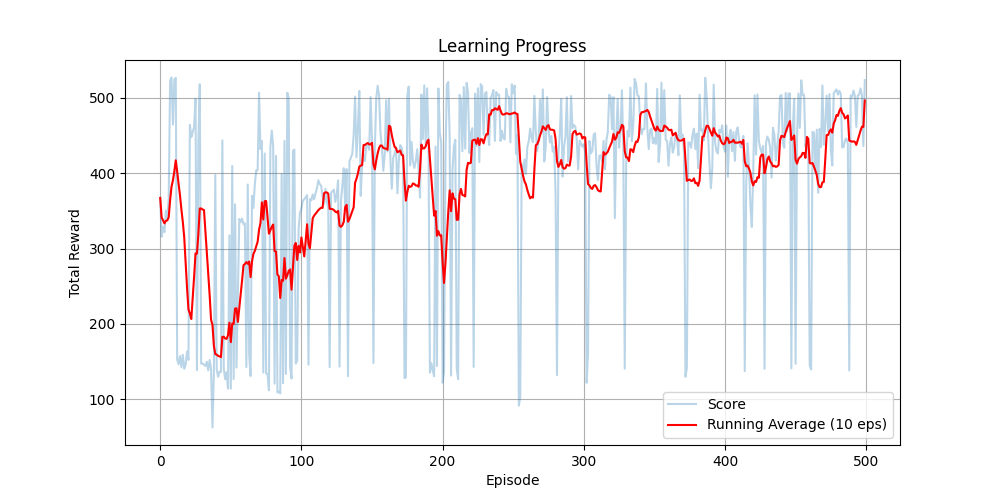
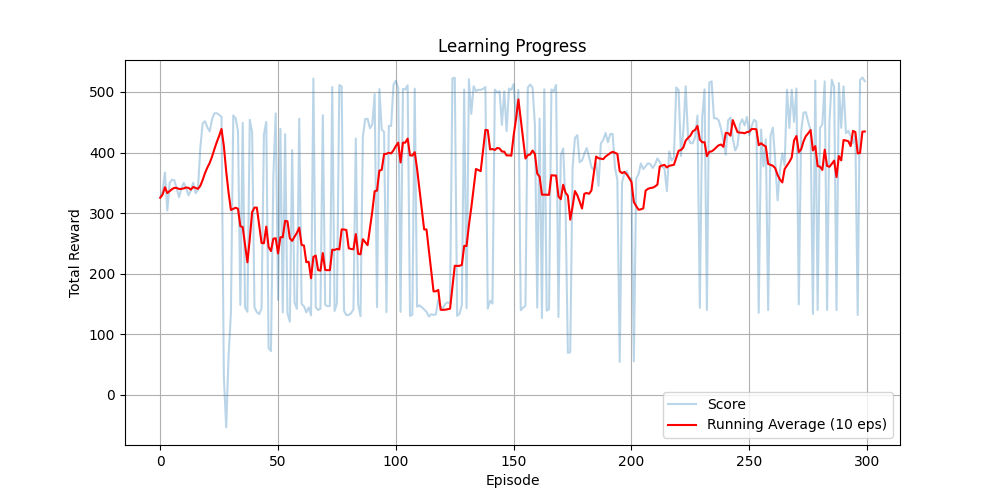
implemented and exposed STL to the RL training loop

diff --git a/numpy_core/gym/colregs_gym.py b/numpy_core/gym/colregs_gym.py
@@ -1,8 +1,8 @@
 from numpy_core.gym.mc_gym_csad_numpy import McGym
+from numpy_core.colregs_stl.vessel_state import VesselState, JointState
 import numpy as np
 import pygame
 import matplotlib.pyplot as plt
-
 
 class ColregsGym(McGym):
     def __init__(self, *args, **kwargs):
@@ -15,25 +15,71 @@ class ColregsGym(McGym):
         self.head_on_radius = 0.0      
         self.head_on_max_time = None   
         self.target_vessel_eta = None  
-        self.target_vessel_traj = []   
+        self.target_vessel_traj = [] 
+
+        # State histories for STL analysis
+        self.ego_state_history: list[VesselState] = []
+        self.adversary_state_history: list[VesselState] = []
+        self.joint_state_history = JointState([], [], np.array([0.0, 0.0], dtype=float))
 
         # For dense reward tracking
         self.prev_dist_to_goal = None
 
     def reset(self):
-        """Reset environment and initialize progress tracking."""
-        super().reset()
+        state = super().reset()
+
+        # Head-on init first (so get_state includes target)
         if self.head_on_mode and self.head_on_init is not None:
             self.target_vessel_eta = self.head_on_init.copy()
             self.target_vessel_traj = []
-        
-        # Initialize distance to goal for progress reward
+
         state = self.get_state()
+
+        # progress tracking
         n, e = state["eta"][:2]
         gn, ge = self.goal[:2]
         self.prev_dist_to_goal = np.hypot(gn - n, ge - e)
-        
+
+        # histories
+        self.ego_state_history.clear()
+        self.adversary_state_history.clear()
+
+        g_n, g_e = state["goal"][:2] if "goal" in state else self.goal[:2]
+        self.joint_state_history = JointState([], [], np.array([g_n, g_e], dtype=float))
+
+        self._log_joint_state(state)
         return state
+
+
+    def _log_joint_state(self, state: dict) -> None:
+        eta = state["eta"]
+        nu = state["nu"]
+
+        ego_vs = VesselState(
+            px=float(eta[0]),
+            py=float(eta[1]),
+            theta=float(eta[-1]),
+            v=float(nu[0]),
+            omega=float(nu[2]),
+        )
+        self.ego_state_history.append(ego_vs)
+        self.joint_state_history.ego.append(ego_vs)
+
+        tgt_eta = state.get("target_eta", None)
+        if tgt_eta is None:
+            adv_vs = VesselState(0.0, 0.0, 0.0, 0.0, 0.0)
+        else:
+            adv_vs = VesselState(
+                px=float(tgt_eta[0]),
+                py=float(tgt_eta[1]),
+                theta=float(tgt_eta[-1]),
+                v=float(state.get("target_speed", self.head_on_speed if self.head_on_mode else 0.0)),
+                omega=float(state.get("target_omega", 0.0)),
+            )
+
+        self.adversary_state_history.append(adv_vs)
+        self.joint_state_history.adversary.append(adv_vs)
+
 
     def compute_reward(self, action, prev_action):
         """
@@ -67,7 +113,7 @@ class ColregsGym(McGym):
             # In most marine models, positive 'r' (nu[2]) is a starboard turn.
             yaw_rate = nu[2]
             if dist_to_target < 15.0 and yaw_rate < -0.05:
-                reward -= 0.1  # Small penalty for "illegal" turn direction
+                reward -= 0.5  # Small penalty for "illegal" turn direction
 
         # 3. Comfort/Efficiency Penalties
         # Small penalty for high control effort (prevents jerky movements)
@@ -148,11 +194,15 @@ class ColregsGym(McGym):
         )
 
     def step(self, action):
-        """Advance both the own ship and the incoming vessel."""
         if self.head_on_mode and self.target_vessel_eta is not None:
             self._update_head_on_vessel()
 
-        return super().step(action)
+        new_state, done, info, reward = super().step(action)
+
+        # ensure target info is present (depends on your get_state implementation)
+        self._log_joint_state(new_state)
+
+        return new_state, done, info, reward
 
     # -------------------------
     # State / collision / drawing

diff --git a/numpy_core/colregs_stl/atomic_predicates.py b/numpy_core/colregs_stl/atomic_predicates.py
@@ -1,0 +1,20 @@
+class AtomicPredicate:
+    def __init__(self, name, max_val_state):
+        self.name = name
+        self.max_val_state = max_val_state
+
+    def evaluate_robust(self, state, k=1.0):
+        raw_robustness = self._compute_raw(state, k)
+        return raw_robustness / self.max_val_state
+
+class PositionHalfplane(AtomicPredicate):
+    def __init__(self, beta, v_max):
+        super().__init__("pos_halfplane", max_val_scale=v_max)
+        self.beta = beta # The angle defining the half-plane
+
+    def _compute_raw(self, joint_state, k):
+        x_E = joint_state.ego[k]
+        x_A = joint_state.adversary[k]
+        
+        return
+

diff --git a/numpy_core/colregs_stl/vessel_state.py b/numpy_core/colregs_stl/vessel_state.py
@@ -1,0 +1,20 @@
+from dataclasses import dataclass
+import numpy as np
+
+@dataclass
+class VesselState:
+    px: float   # North 
+    py: float   # East 
+    theta: float # Orientation 
+    v: float     # Linear velocity 
+    omega: float # Angular velocity 
+
+    def to_vec(self):
+        return np.array([self.px, self.py, self.theta, self.v, self.omega])
+
+@dataclass
+class JointState:
+    # Lists of VesselState representing the sequence of states over time
+    ego: list[VesselState] 
+    adversary: list[VesselState]
+    goal_pos: np.ndarray 

diff --git a/numpy_core/rl_training/head_on_training_ddpg.py b/numpy_core/rl_training/head_on_training_ddpg.py
@@ -104,7 +104,7 @@ def decode_action_to_refs(action: np.ndarray, state: dict):
 
 # Training loop, just set episodes to a low number for quick tests
 # and for checking the simulation behavior.
-def train(num_episodes=500, dt=0.08):
+def train(num_episodes=300, dt=0.08):
     # env just for agent init (no rendering)
     init_env = make_head_on_env(dt=dt, render_on=False)
     init_env.v_min, init_env.v_max = -1.0, 1.0

diff --git a/numpy_core/colregs_stl/colregs_stl.py b/numpy_core/colregs_stl/colregs_stl.py
@@ -1,0 +1,2 @@
+class ColregsSTL:
+    pass
